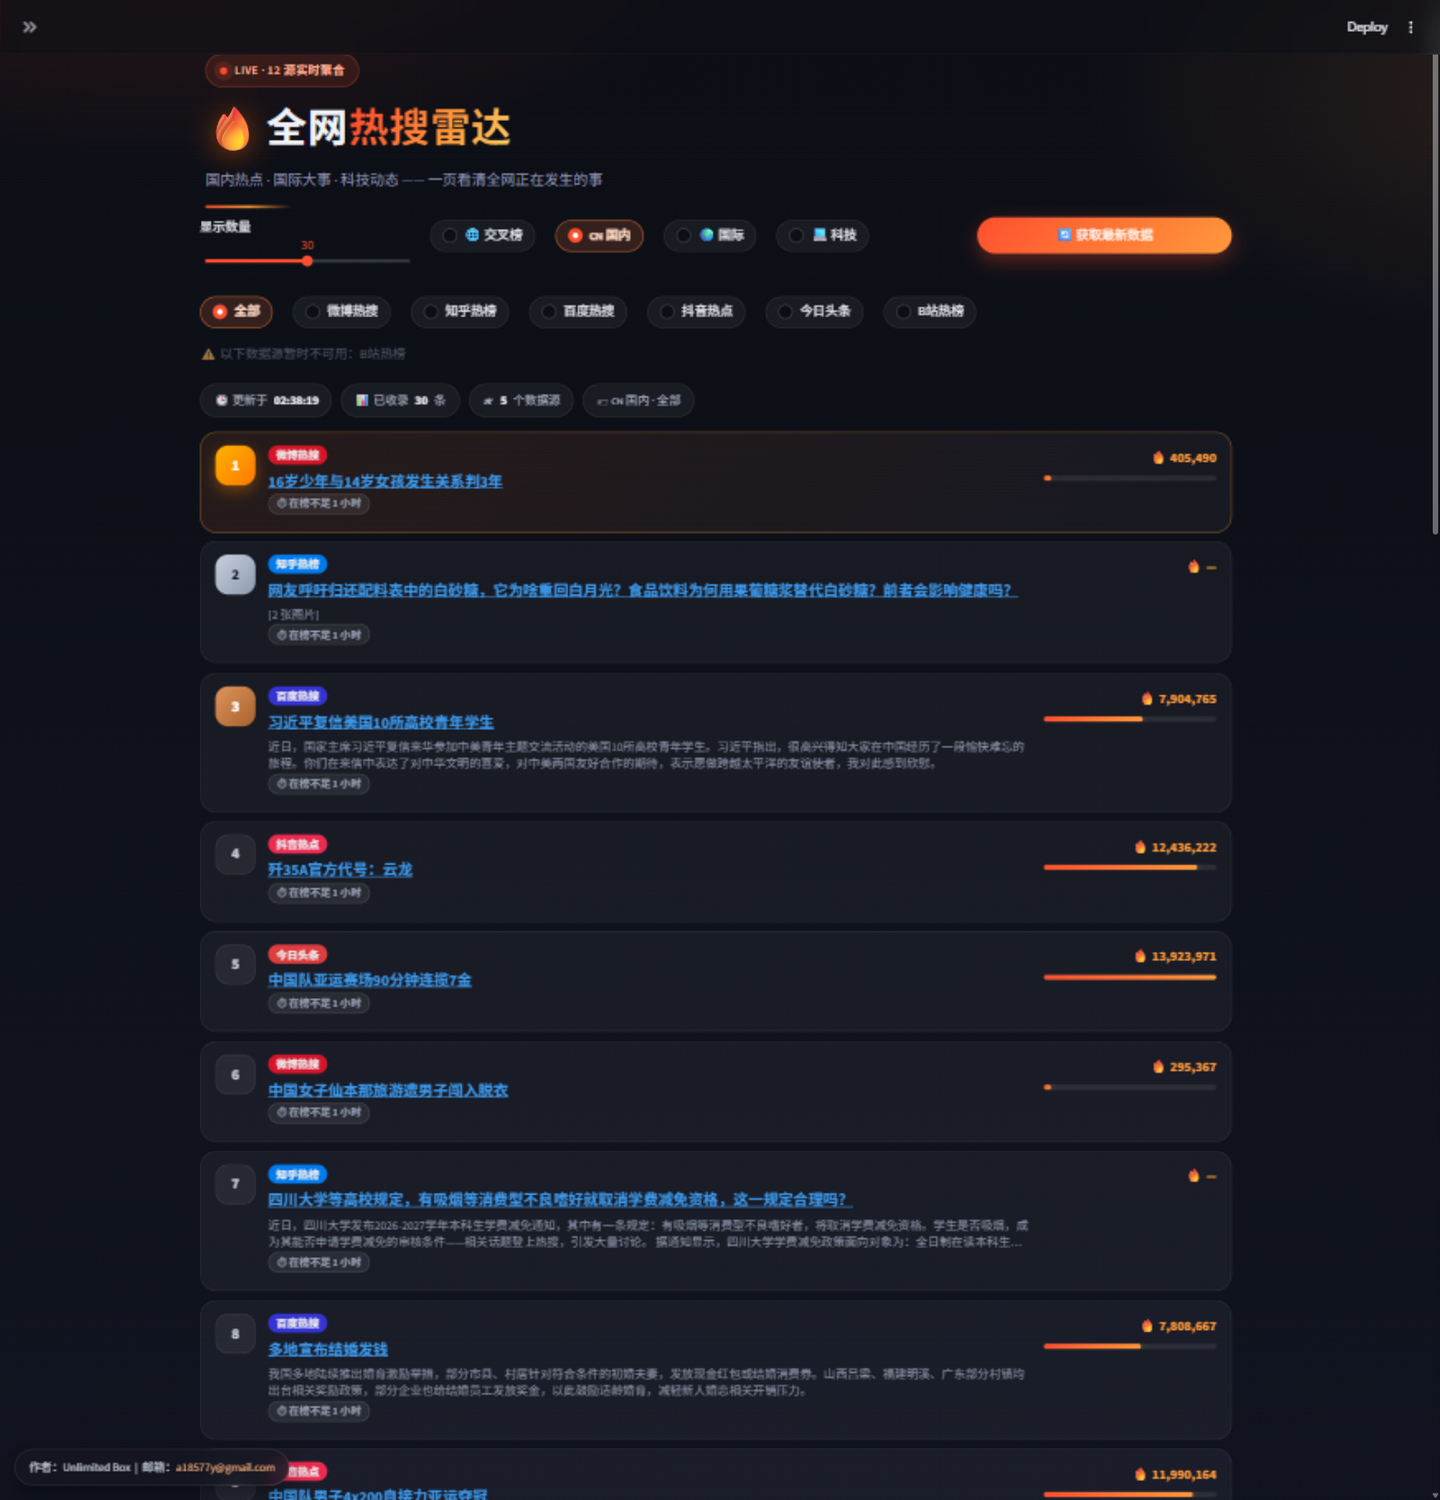
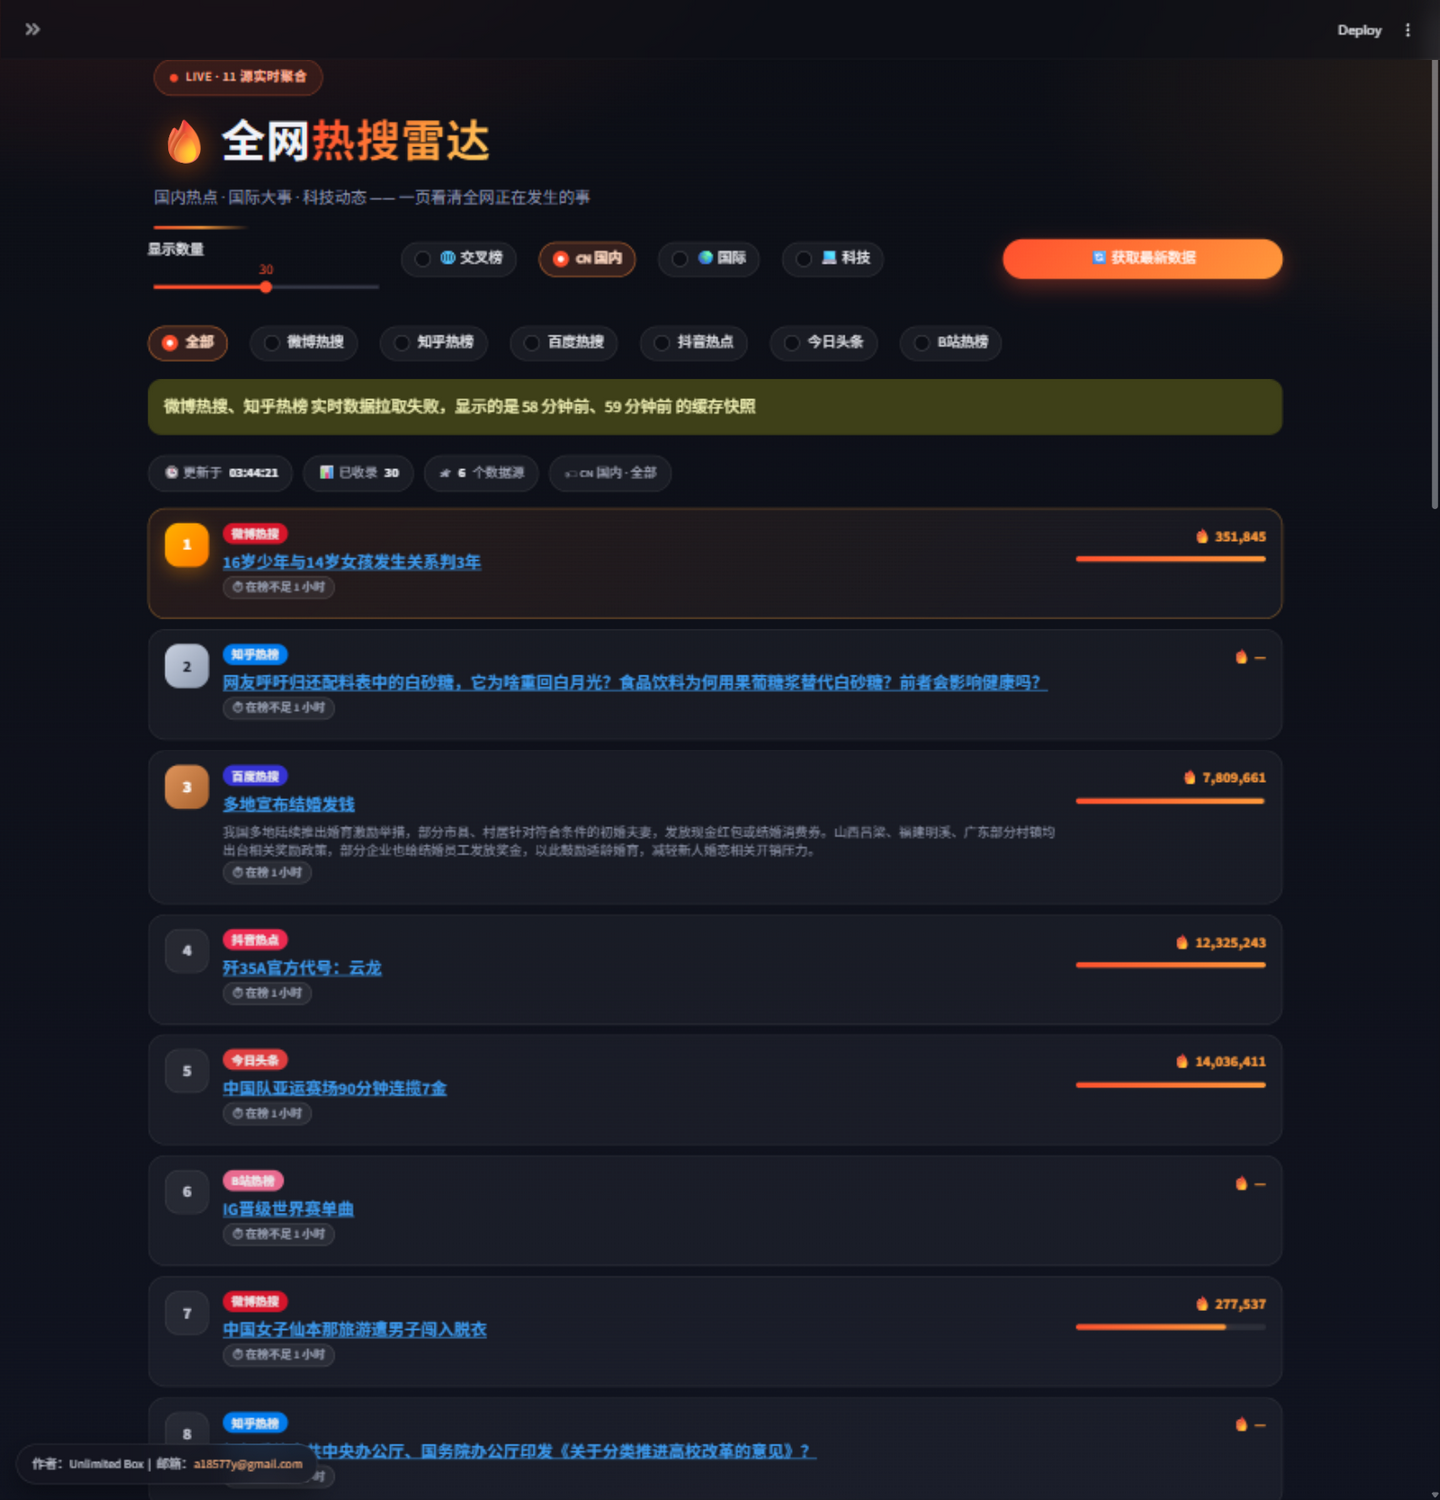
README：更新界面截图至 11 源版本（排名修复后），配置说明补充微博 Cookie

diff --git a/README.md b/README.md
@@ -105,6 +105,7 @@ streamlit run app.py
 Everything lives in the sidebar — no code changes needed:
 
 - **60s API instance**: built-in official + community instances with automatic failover; public instances are rate-limited, so you can point to your [self-hosted instance](https://github.com/vikiboss/60s) (Docker / Node, one-click to Vercel / Zeabur)
+- **Weibo Cookie**: paste it once (login weibo.com → F12 → copy the `SUB=...` from any request header) to go direct to Weibo's official API — works on cloud deploys too; otherwise via 60s API
 - **Proxy**: the Baidu source connects directly to top.baidu.com and usually needs an HTTPS proxy outside mainland China; "Test connection / auto-pick proxy" included
 - **Sample data**: preview the full UI with no network
 

diff --git a/README.zh-CN.md b/README.zh-CN.md
@@ -103,6 +103,7 @@ streamlit run app.py
 全部配置在侧边栏，无需改代码：
 
 - **60s API 实例**：默认使用内置的官方 + 社区实例并自动容灾；公共实例限流较严，可填入[自部署实例](https://github.com/vikiboss/60s)地址（支持 Docker / Node，一键部署到 Vercel / Zeabur）
+- **微博 Cookie**：粘贴一次（登录 weibo.com → F12 → 任一请求头里的 `SUB=...`）即直连微博官方接口，云端部署也能用；不填则走 60s API
 - **代理**：百度源直连 top.baidu.com，海外网络通常需配置 HTTPS 代理；提供「测试连接 / 一键选代理」
 - **示例数据**：断网也可预览完整界面
 
